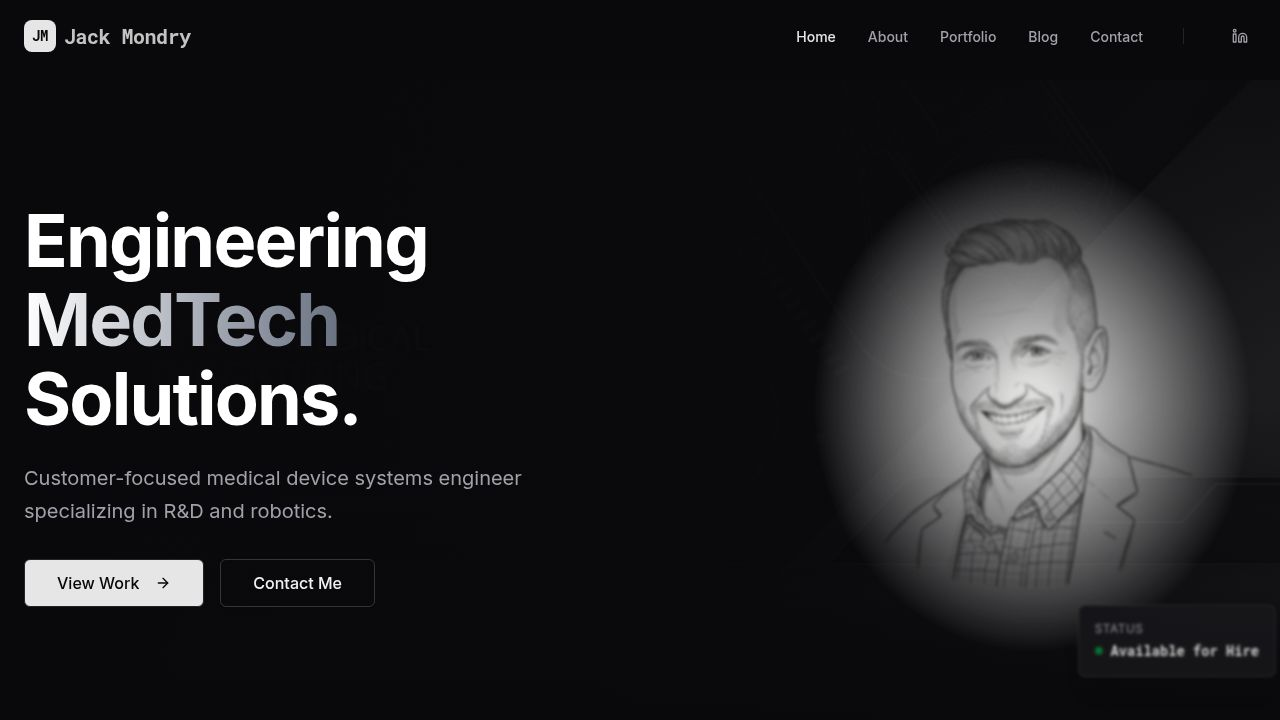
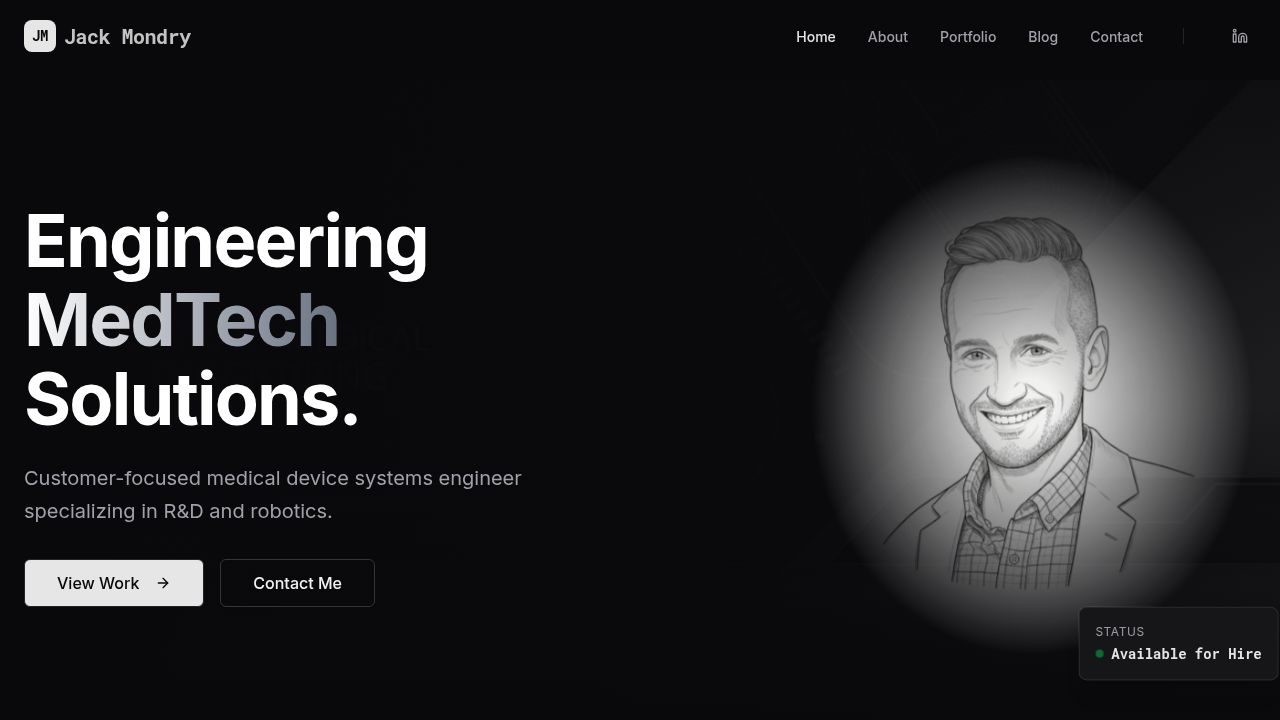
Update project company name to include university affiliation
Change company name for the Miniature Surgical Robot project from "Surgical Robotics Lab" to "University of Nebraska Surgical Robotics Lab" in mockData.ts.

Replit-Commit-Author: Agent
Replit-Commit-Session-Id: a14cd955-a383-4f2f-8d7f-06c5b63045ac
Replit-Commit-Checkpoint-Type: full_checkpoint
Replit-Commit-Event-Id: 928a82b4-3f36-4782-9d75-9169cdfa4c32
Replit-Commit-Screenshot-Url: https://storage.googleapis.com/screenshot-production-us-central1/e57c73f6-bd70-426b-b3ee-581bf0628ea6/a14cd955-a383-4f2f-8d7f-06c5b63045ac/MR4TY8m
Replit-Helium-Checkpoint-Created: true

Changed region(s): [[0.75, 0.4889, 0.875, 0.7639], [0.8438, 0.8556, 1.0, 0.9167], [0.8438, 0.4583, 0.875, 0.55]]

diff --git a/client/src/lib/mockData.ts b/client/src/lib/mockData.ts
@@ -66,7 +66,7 @@ export const projects: Project[] = [
     id: "4",
     title: "Miniature Surgical Robot",
     role: "Graduate Research Assistant",
-    company: "Surgical Robotics Lab",
+    company: "University of Nebraska Surgical Robotics Lab",
     description: "Designed and built a miniature surgical robot for single-port surgery. Led to a successful pre-clinical study, with the technology currently licensed by Virtual Incision ($146M raised).",
     tags: ["Surgical Robotics", "Mechanical Design", "Pre-clinical Study"],
     image: miniRobotImg,
